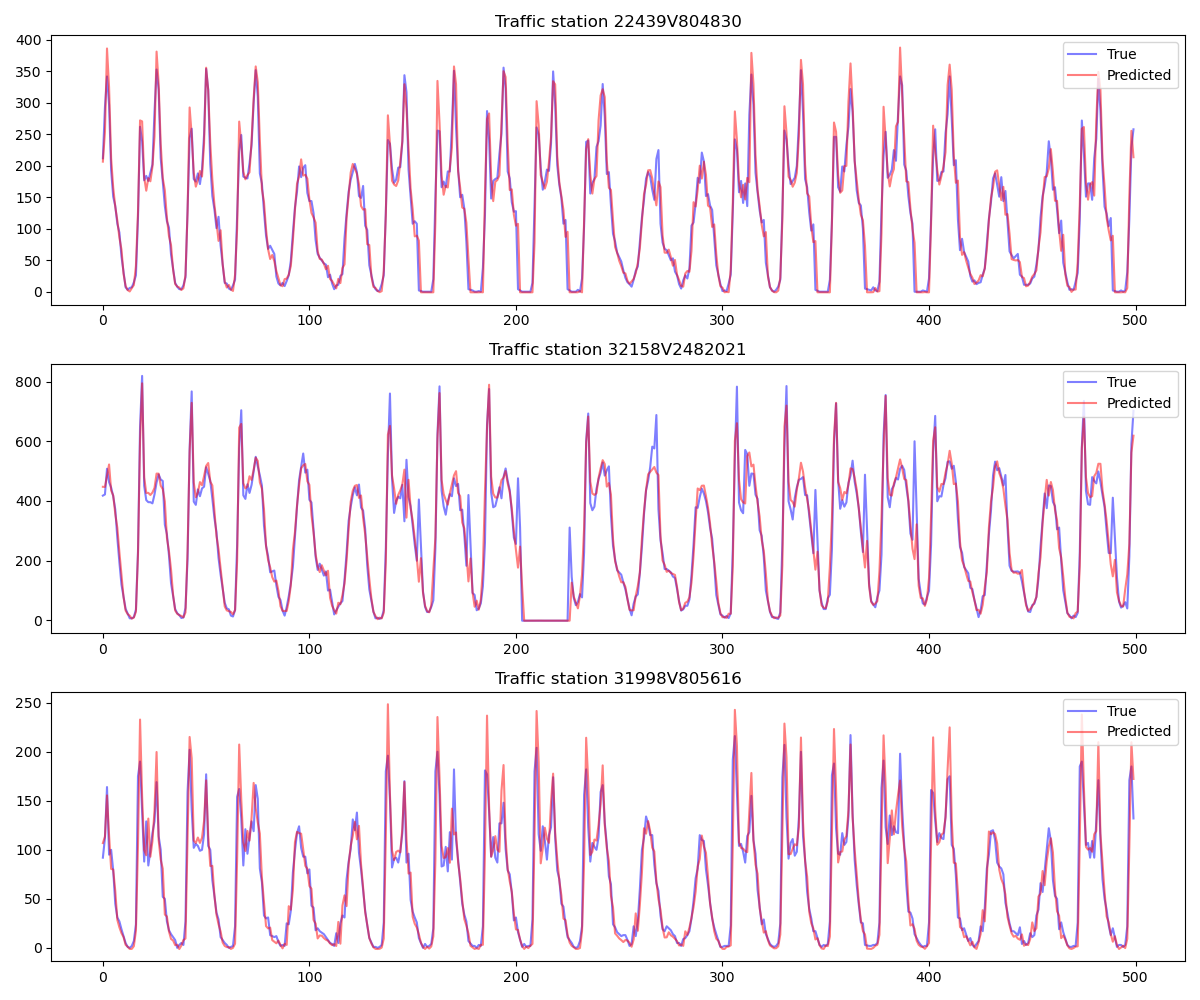
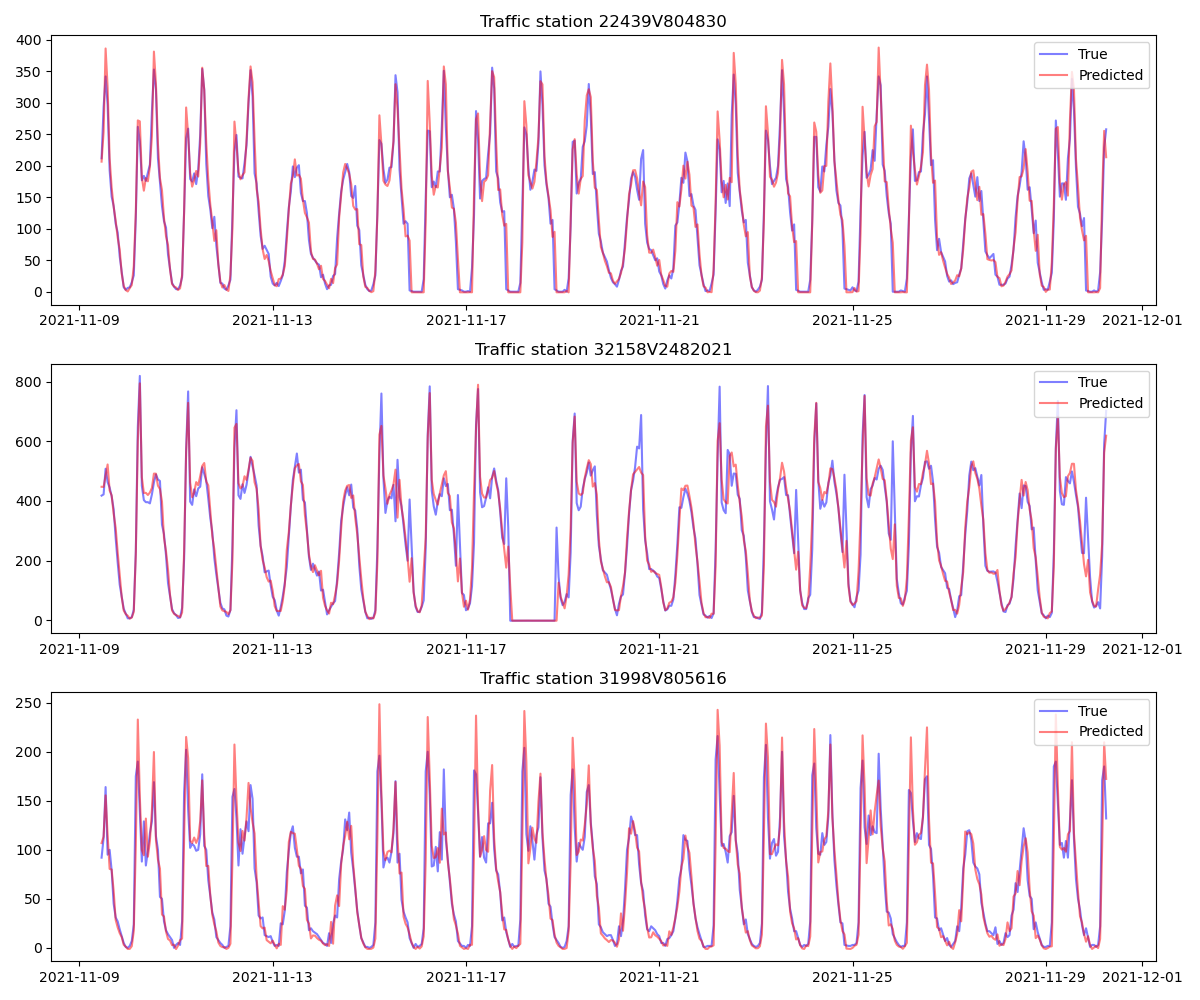
pred plots now with timestamps and station names

diff --git a/utils/trainer.py b/utils/trainer.py
@@ -24,7 +24,7 @@ class Trainer():
         self.val_steps = len(train_dataloader) // config["val_per_epoch"]
         self.earlystopper = EarlyStopper(limit=config["earlystop_limit"])
         self.train_history = {"train_loss" : [], "val_loss" : []}
-        self.test_results = {"timestamps" : [], "predictions" : [], "ground_truth" : []}
+        self.test_results = {"predictions" : [], "ground_truth" : []}
 
     def train_step(self, data):
         X, y = self.get_data_and_targets(data)
@@ -115,10 +115,10 @@ class Trainer():
                 self.test_results["ground_truth"].extend(gt_list)
                 self.test_results["predictions"].extend(pred_list)
 
-            for key in self.test_results.keys():
-                self.test_results[key] = np.asarray(self.test_results[key])
-            mean_test_loss = np.mean(test_losses)
+        for key in self.test_results.keys():
+            self.test_results[key] = np.asarray(self.test_results[key])
 
+        mean_test_loss = np.mean(test_losses)
         print(f"Test Loss: {mean_test_loss:.4f}")
 
     def batch_to_list(self, data, preds):
@@ -128,11 +128,12 @@ class Trainer():
         # Plots predictions and ground truth for stations with indices in station_indices
         preds = self.test_results["predictions"][from_index:from_index+length, :]
         truth = self.test_results["ground_truth"][from_index:from_index+length, :]
+        timestamps = self.test_dataloader.dataset.df.index[from_index:from_index+length]
         fig, axes = plt.subplots(nrows=len(station_indices), ncols=1, figsize=(12,10))
         for i,j in enumerate(station_indices):
-            axes[i].plot(truth[:, i], label="True", c="blue", alpha=0.5)
-            axes[i].plot(preds[:, i], label="Predicted", c="red", alpha=0.5)
-            station_name = self.test_dataloader.dataset.get_column_name(j)
+            axes[i].plot(timestamps, truth[:, i], label="True", c="blue", alpha=0.5)
+            axes[i].plot(timestamps, preds[:, i], label="Predicted", c="red", alpha=0.5)
+            station_name = self.test_dataloader.dataset.df.columns[j]
             axes[i].title.set_text(f"Traffic station {station_name}")
             axes[i].legend(loc="upper right")
         fig.tight_layout()

diff --git a/utils/dataloader.py b/utils/dataloader.py
@@ -47,13 +47,6 @@ class TrafficVolumeDataSet(Dataset):
         hour = timestamp.hour
         return [month, weekday, hour]
     
-    def get_timestamp(self, index):
-        return self.df.index[index]
-
-    def get_column_name(self, col):
-        return self.df.columns[col]
-
-
 def TrafficVolumeDataLoader(datafile, batch_size=32, num_workers=4, shuffle=False, drop_last=False):
     dataset = TrafficVolumeDataSet(datafile)
     dataloader = DataLoader(dataset, batch_size=batch_size, shuffle=shuffle, num_workers=num_workers, drop_last=drop_last)
